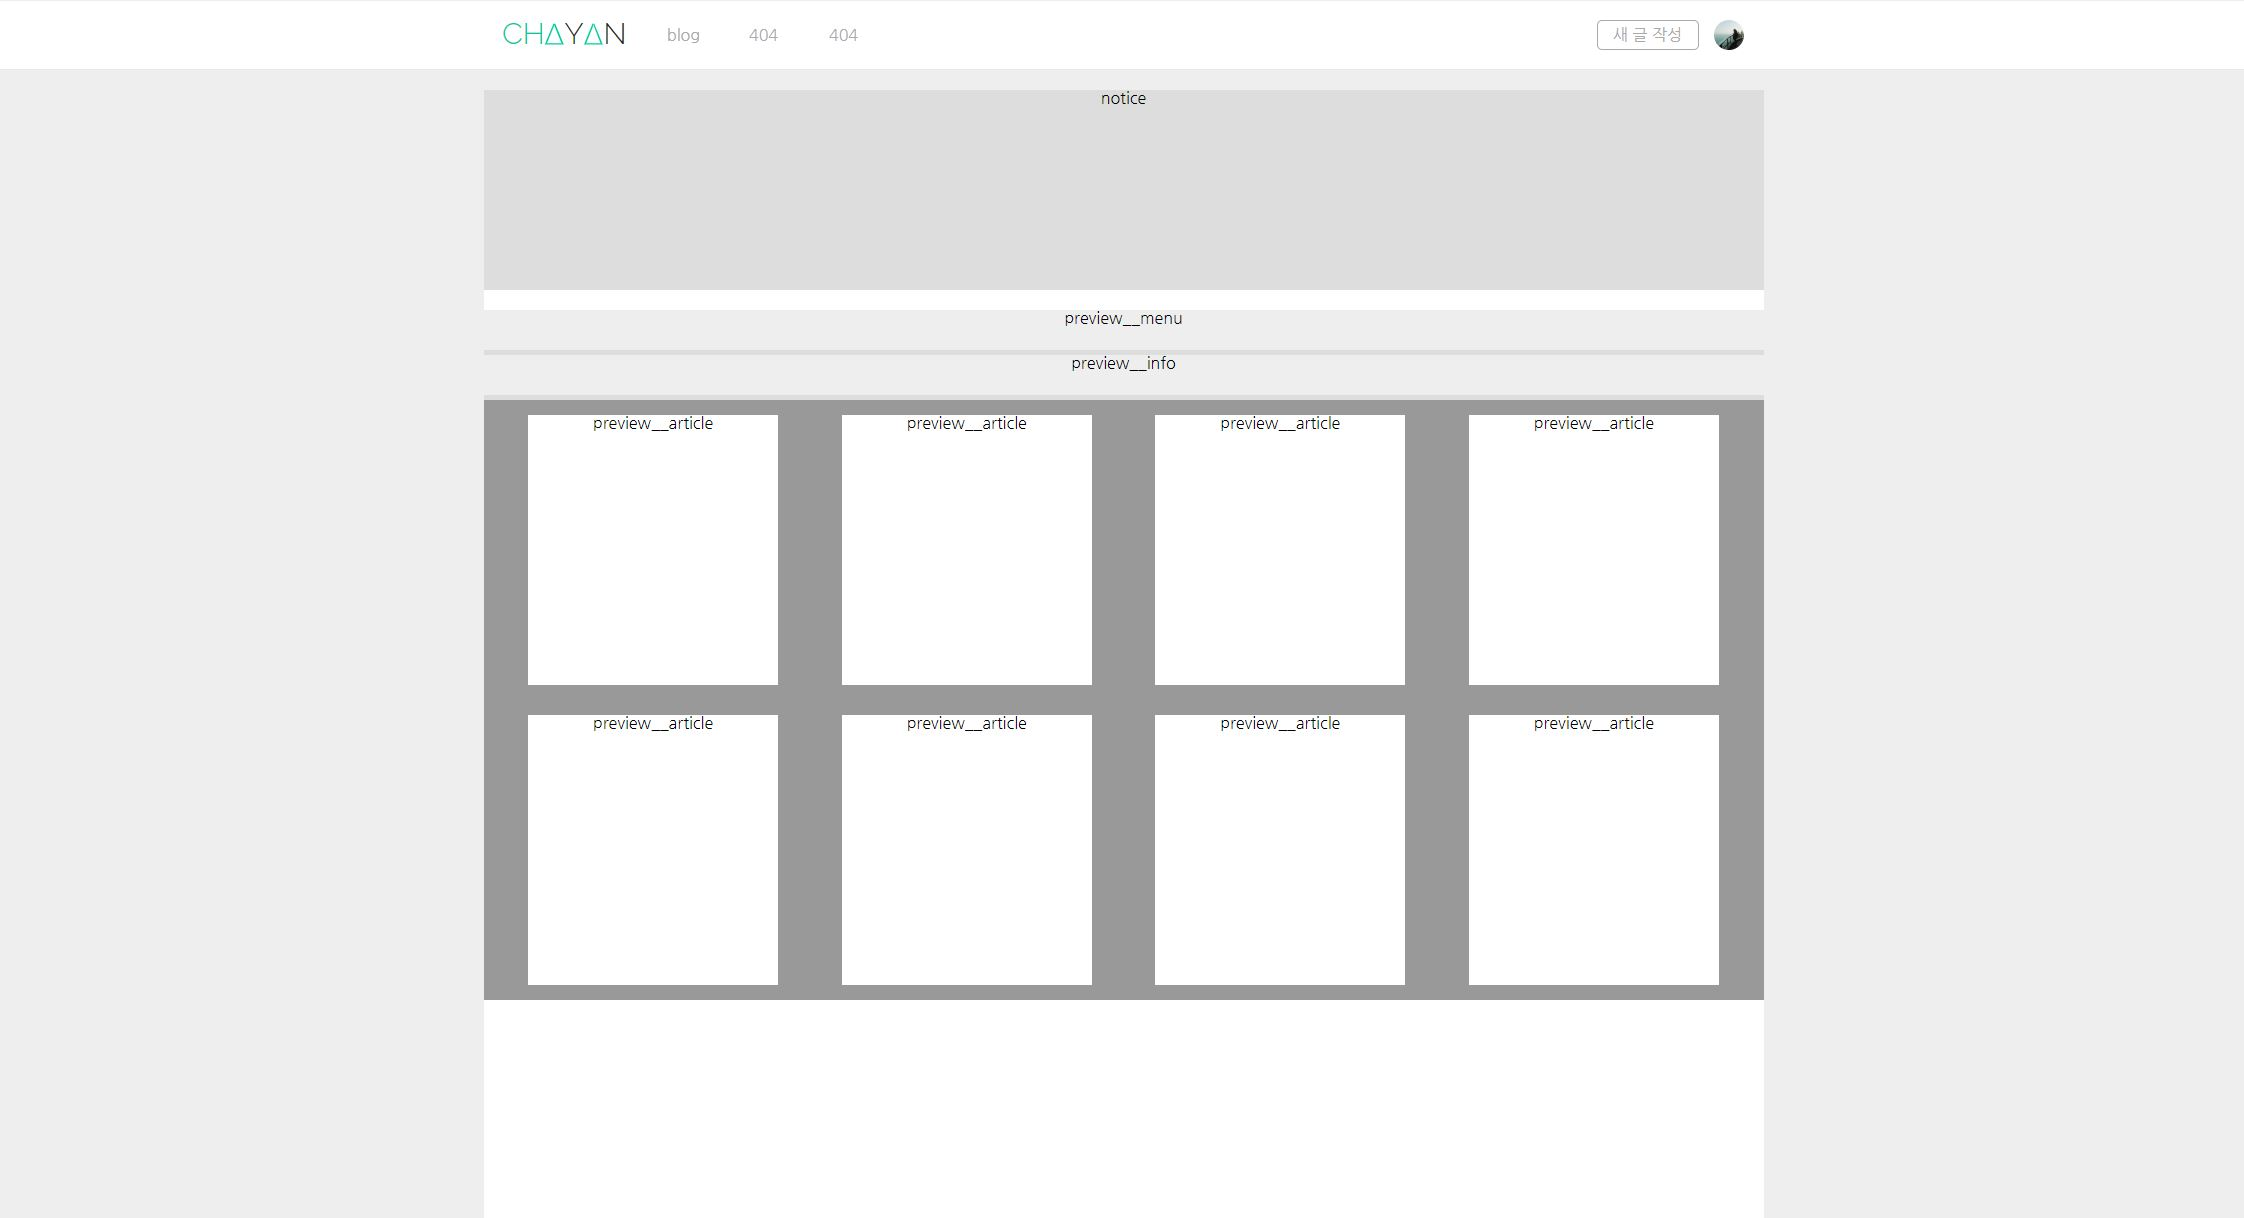
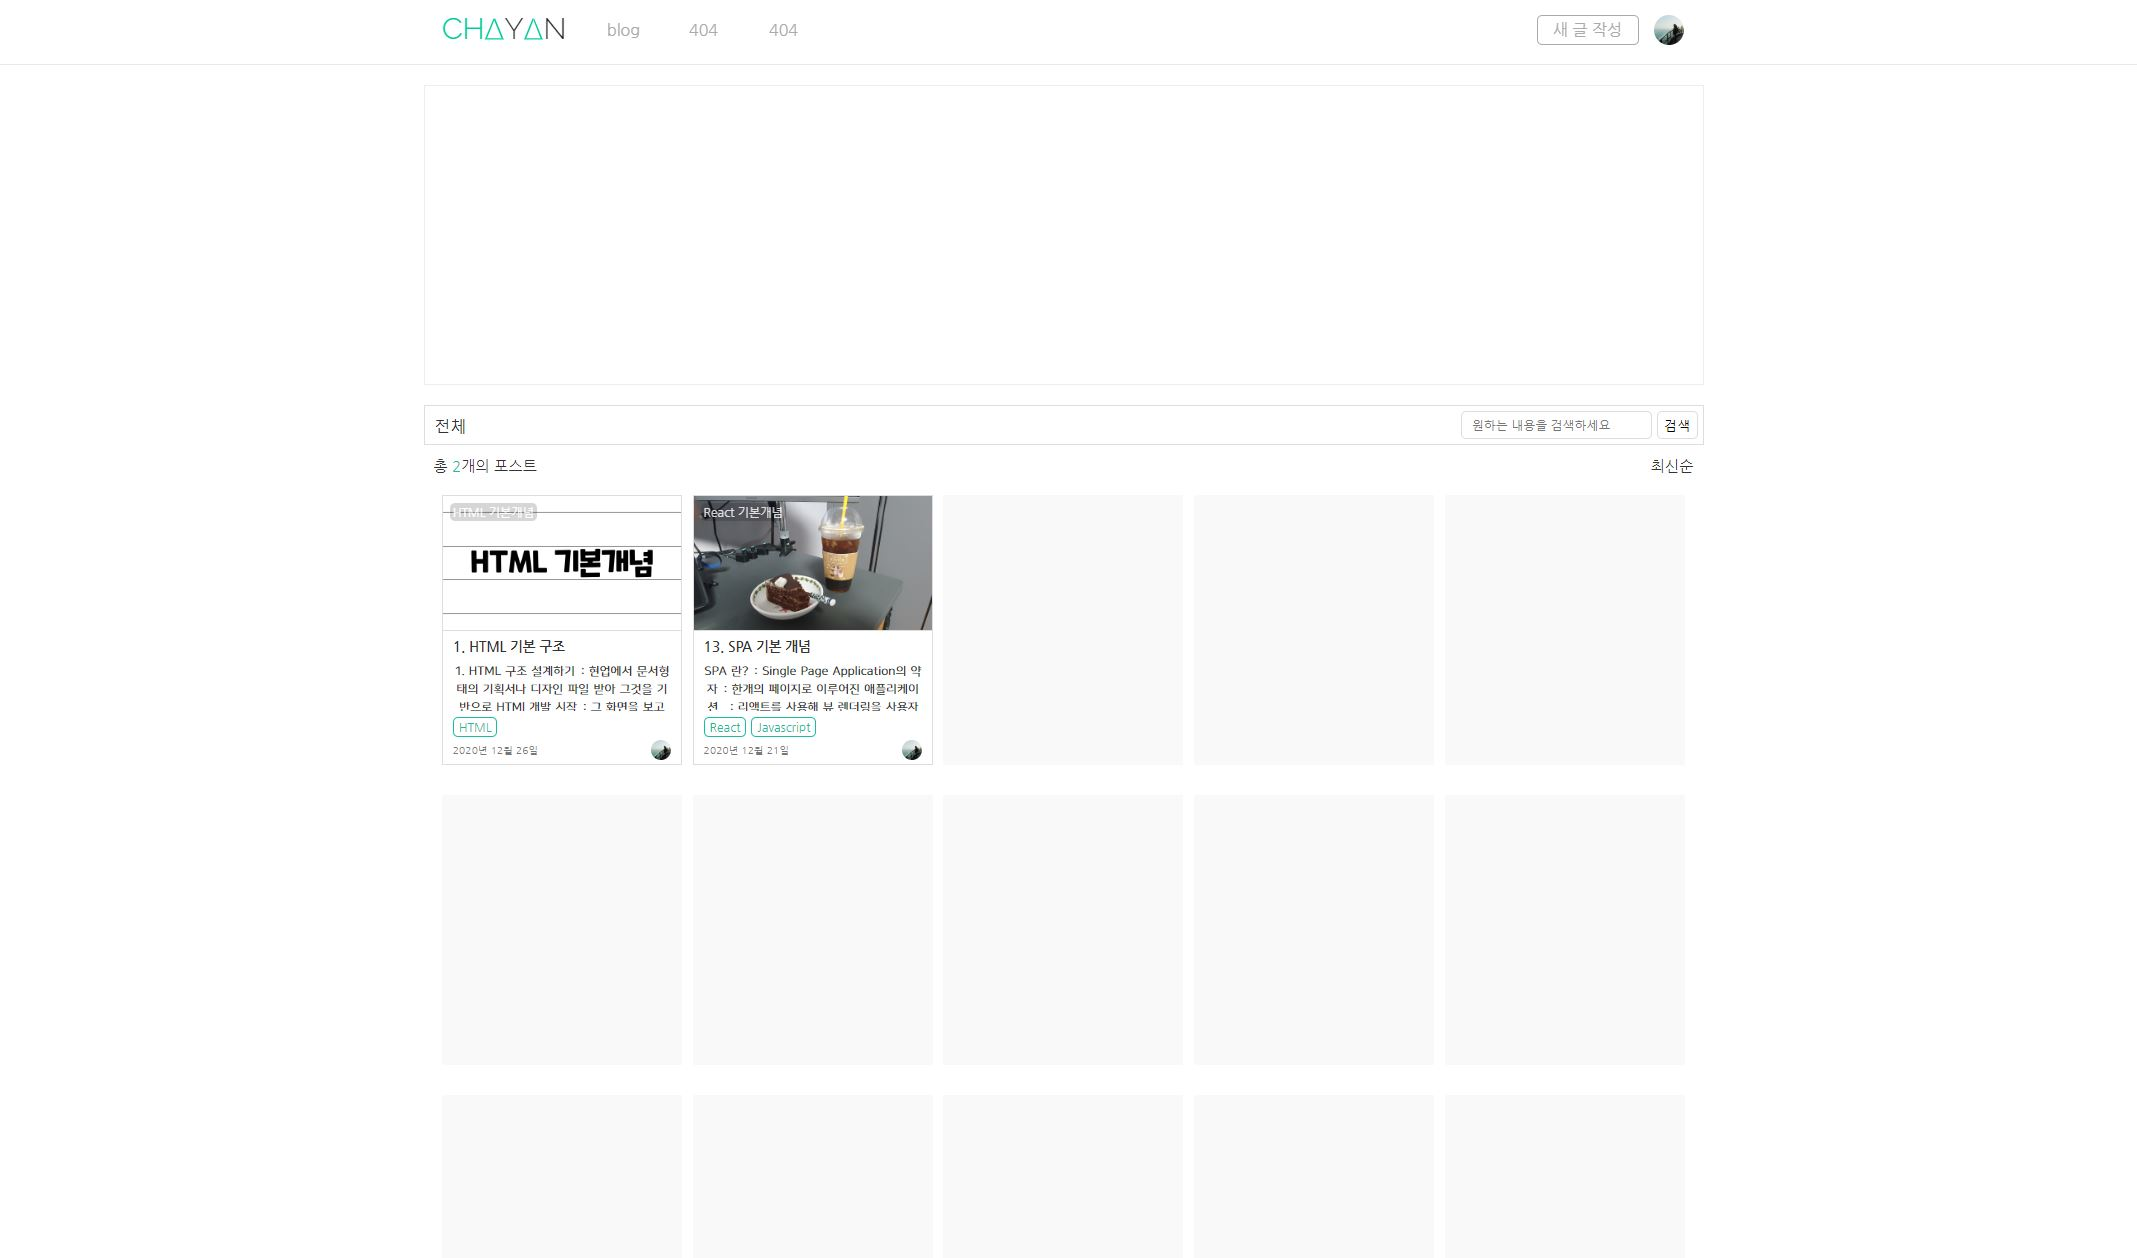
docs: gitjub 문서 이미지 개선

Changed region(s): [[0.2162, 0.0, 0.803, 0.8424], [0.2162, 0.0, 0.278, 0.0312]]

diff --git a/README.md b/README.md
@@ -38,11 +38,10 @@
 |          메인 페이지 [ / ]           |
 | :----------------------------------: |
 |  ![](documents/objects/home.JPG)   |
-| **포스트 목록 페이지 [ /articles ]** |
-|  ![](documents/objects/post.JPG)   |
 |   **게시글 페이지 [ /id=312343 ]**   |
 |  ![](documents/objects/view.JPG)   |
 |     **게시글 페이지 [ /write ]**     |
 |  ![](documents/objects/write.JPG)  |
 |        **🔨 추후 업데이트 🔨**         |
+| 유저 글 목록, 유저 기본 정보 등 |
 
